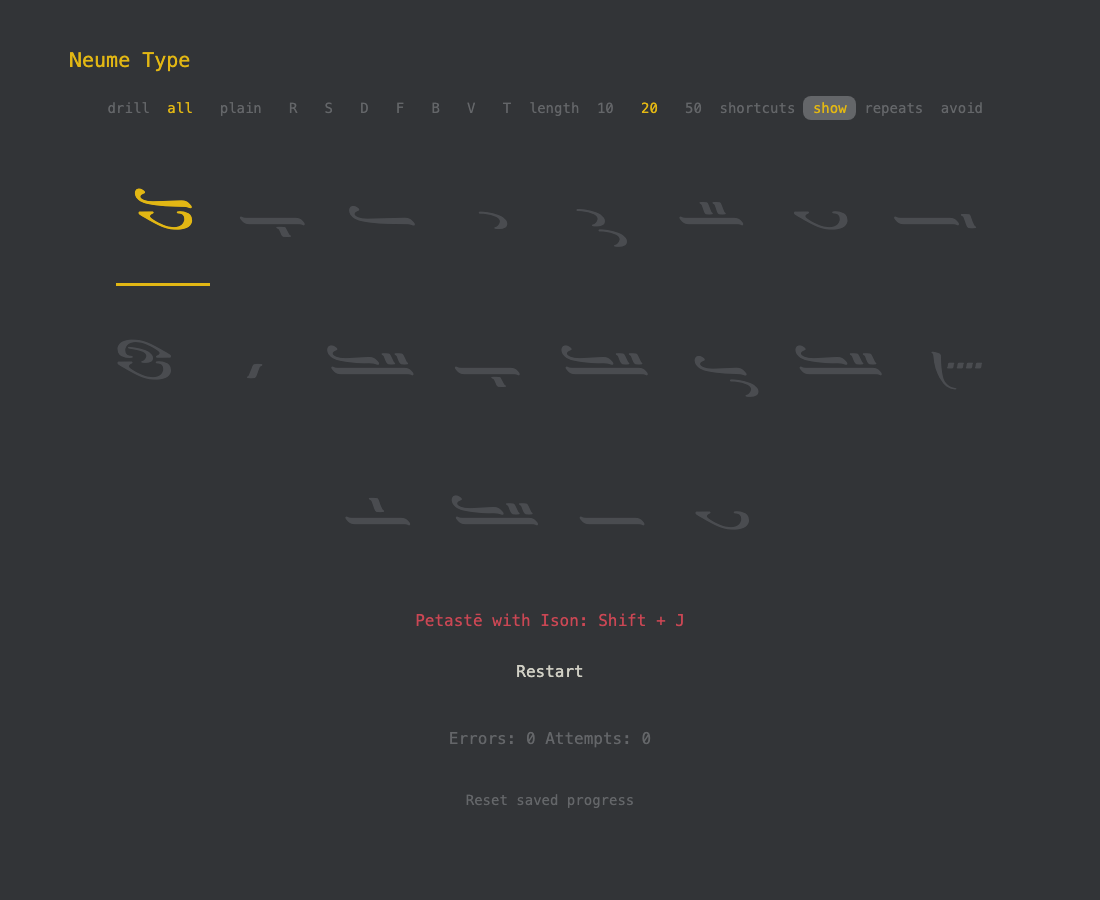
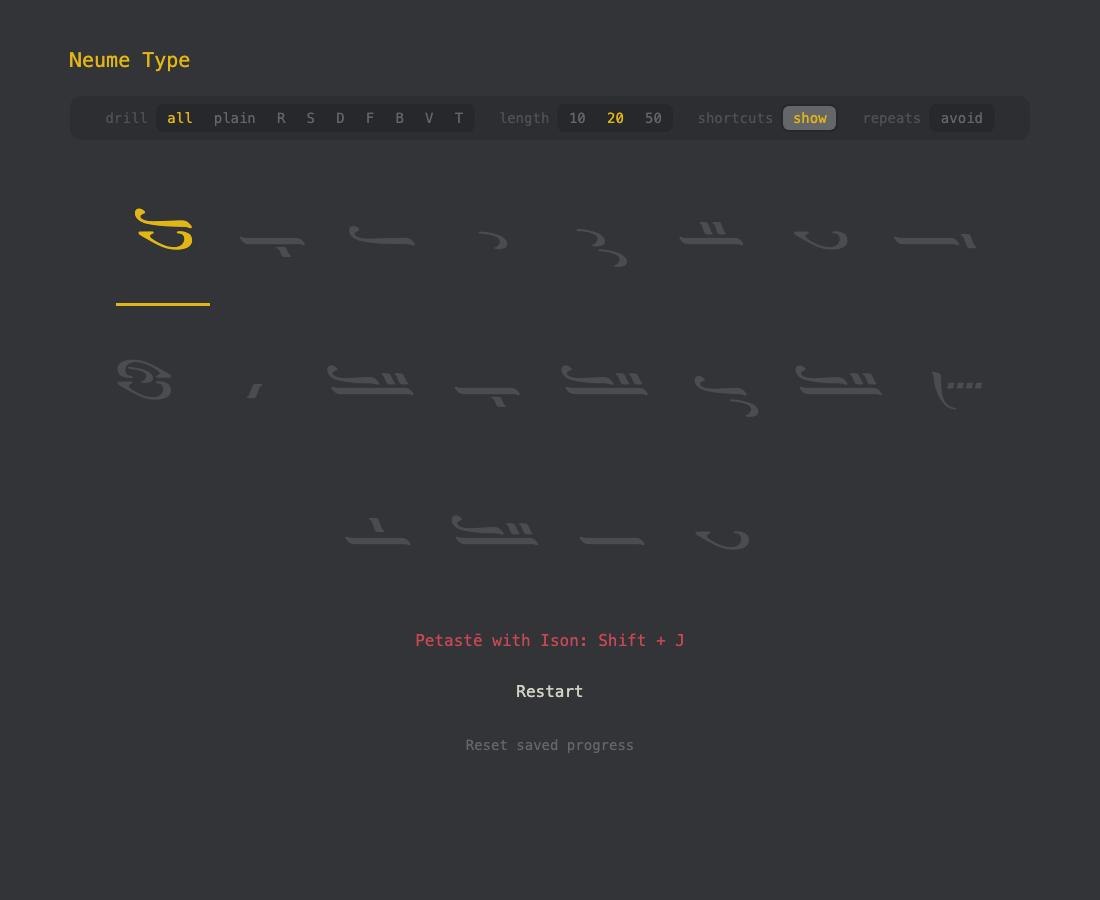
feat(ui): show weakest neumes only in the results, quieter and readable (#35)
* feat(ui): show weakest neumes only in the results, quieter and readable

Move the all-time weakest panel into the Results view and drop the yellow
card. Rename the errors column to miss rate, state the scope (all time,
3+ attempts), lift text contrast above 4.5:1, hide the glyphs from screen
readers and label the section by its heading. SPEC section 3c and
criterion 17 updated; owner decision 2026-11-21.

* docs(spec): say the weakest panel follows the hardest list

---------

diff --git a/e2e/progress.spec.ts b/e2e/progress.spec.ts
@@ -36,7 +36,21 @@ test('the weakest panel survives a reload', async ({ page }) => {
   await playRun(page);
   await expect(page.getByTestId('weakest').locator(`tr[data-neume-id="${first.id}"]`)).toBeVisible();
   await page.reload();
+  // Saved history never shows during a test or on a fresh start, only in the results.
+  await expect(page.getByTestId('weakest')).toHaveCount(0);
+  await playRun(page);
   await expect(page.getByTestId('weakest').locator(`tr[data-neume-id="${first.id}"]`)).toBeVisible();
+});
+
+test('the weakest panel shows only inside the results, never during a test', async ({ page }) => {
+  await page.goto('/?seed=1');
+  for (let i = 0; i < 3; i++) await page.keyboard.press('KeyH');
+  await playRun(page);
+  await expect(page.getByTestId('done').getByTestId('weakest')).toBeVisible();
+  await page.getByTestId('restart').click();
+  await expect(page.getByTestId('weakest')).toHaveCount(0);
+  await typeChord(page, await currentTarget(page)); // mid-test with saved history
+  await expect(page.getByTestId('weakest')).toHaveCount(0);
 });
 
 test('corrupt storage does not break the page', async ({ page }) => {
@@ -89,36 +103,79 @@ test('settings survive a reset and a reload', async ({ page }) => {
   await expect(page.getByTestId('drill-KeyR')).toHaveAttribute('aria-pressed', 'true');
 });
 
-test('the weakest panel is a yellow-outlined card holding a table with no ruled lines', async ({ page }) => {
+test('the weakest panel is a quiet table with no outline, no card and no ruled lines', async ({ page }) => {
   await page.goto('/?seed=1');
   for (let i = 0; i < 3; i++) await page.keyboard.press('KeyH');
   await playRun(page);
-  const card = page.getByTestId('weakest');
-  const outline = await card.evaluate((el) => {
+  const panel = page.getByTestId('weakest');
+  const box = await panel.evaluate((el) => {
     const cs = getComputedStyle(el);
-    return [cs.borderTopColor, cs.borderTopWidth];
+    return { width: parseFloat(cs.borderTopWidth), style: cs.borderTopStyle, bg: cs.backgroundColor, radius: parseFloat(cs.borderTopLeftRadius) };
   });
-  expect(outline[0]).toBe('rgb(226, 183, 20)'); // --accent
-  expect(parseFloat(outline[1])).toBeGreaterThanOrEqual(1);
-  // A real table with column headers, so each value sits under its title.
-  const headers = card.locator('table thead th');
-  expect(await headers.count()).toBeGreaterThanOrEqual(3);
-  await expect(card.locator('tbody tr').first().locator('td').first()).toBeVisible();
+  expect(box.width === 0 || box.style === 'none').toBe(true);
+  expect(box.bg).toBe('rgba(0, 0, 0, 0)');
+  expect(box.radius).toBe(0);
+  // A real table with the column titles from the owner's brief.
+  await expect(panel.locator('thead th')).toHaveText(['neume', 'name', 'shortcut', 'miss rate']);
+  await expect(panel.locator('tbody tr').first().locator('td').first()).toBeVisible();
+  // The ranking scope is stated.
+  await expect(panel).toContainText('all time · 3+ attempts');
   // No hard lines: no cell or row has a visible border.
-  const ruled = await card.locator('th, td, tr, table').evaluateAll((els) =>
+  const ruled = await panel.locator('th, td, tr, table').evaluateAll((els) =>
     els.filter((el) => ['top', 'right', 'bottom', 'left'].some((side) => parseFloat(getComputedStyle(el).getPropertyValue(`border-${side}-width`)) > 0 && getComputedStyle(el).getPropertyValue(`border-${side}-style`) !== 'none')).length,
   );
   expect(ruled).toBe(0);
+  // Rows are not interactive, so they do not change on hover.
+  const row = panel.locator('tbody tr').first();
+  const before = await row.locator('td').nth(1).evaluate((el) => getComputedStyle(el).backgroundColor);
+  await row.hover();
+  expect(await row.locator('td').nth(1).evaluate((el) => getComputedStyle(el).backgroundColor)).toBe(before);
 });
 
-test('the weakest card is left-aligned and as wide as the settings bar', async ({ page }) => {
+test('the weakest panel text has at least 4.5:1 contrast', async ({ page }) => {
   await page.goto('/?seed=1');
   for (let i = 0; i < 3; i++) await page.keyboard.press('KeyH');
   await playRun(page);
-  const card = (await page.getByTestId('weakest').boundingBox())!;
-  const bar = (await page.locator('.settings').boundingBox())!;
-  expect(Math.abs(card.x - bar.x)).toBeLessThan(2);
-  expect(Math.abs(card.width - bar.width)).toBeLessThan(2);
-  const align = await page.getByTestId('weakest').locator('tbody td').nth(1).evaluate((el) => getComputedStyle(el).textAlign);
-  expect(['left', 'start']).toContain(align);
+  const ratios = await page.getByTestId('weakest').evaluate((panel) => {
+    const lum = (rgb: string) => {
+      const [r, g, b] = rgb.match(/[\d.]+/g)!.slice(0, 3).map((v) => {
+        const c = Number(v) / 255;
+        return c <= 0.03928 ? c / 12.92 : ((c + 0.055) / 1.055) ** 2.4;
+      });
+      return 0.2126 * r + 0.7152 * g + 0.0722 * b;
+    };
+    const bg = lum(getComputedStyle(document.body).backgroundColor);
+    const cells = [
+      ...panel.querySelectorAll('h3, p, th, td:not(:first-child)'),
+    ] as HTMLElement[];
+    return cells.map((el) => {
+      const l = lum(getComputedStyle(el).color);
+      return { text: el.textContent, ratio: (Math.max(l, bg) + 0.05) / (Math.min(l, bg) + 0.05) };
+    });
+  });
+  expect(ratios.length).toBeGreaterThan(5);
+  for (const r of ratios) expect(r.ratio, r.text ?? '').toBeGreaterThanOrEqual(4.5);
+});
+
+test('the weakest panel is labelled by its heading and hides the glyphs from screen readers', async ({ page }) => {
+  await page.goto('/?seed=1');
+  for (let i = 0; i < 3; i++) await page.keyboard.press('KeyH');
+  await playRun(page);
+  const panel = page.getByTestId('weakest');
+  const labelledby = await panel.getAttribute('aria-labelledby');
+  expect(labelledby).toBeTruthy();
+  await expect(page.locator(`#${labelledby}`)).toHaveText('Weakest neumes');
+  await expect(panel.locator('tbody .neume').first()).toHaveAttribute('aria-hidden', 'true');
+});
+
+test('on a phone the weakest rows stay readable without overflow', async ({ page }) => {
+  await page.setViewportSize({ width: 390, height: 800 });
+  await page.goto('/?seed=1');
+  for (let i = 0; i < 3; i++) await page.keyboard.press('KeyH');
+  await playRun(page);
+  const panel = page.getByTestId('weakest');
+  const overflow = await page.evaluate(() => document.documentElement.scrollWidth - document.documentElement.clientWidth);
+  expect(overflow).toBeLessThanOrEqual(0);
+  const rowHeight = (await panel.locator('tbody tr').first().boundingBox())!.height;
+  expect(rowHeight).toBeLessThan(80); // at most two lines of text
 });

diff --git a/src/ui/App.tsx b/src/ui/App.tsx
@@ -93,6 +93,7 @@ export function App({ store, progress, debug = false }: { store: GameStore; prog
           tallies={state.tallies}
           bestRate={best ? best.neumesPerMinute.toFixed(1) : null}
           newBest={saved.lastRun?.newBest === true && saved.lastRun.key === key}
+          weak={weakNeumes}
         />
       ) : (
         <div className="neume-row" data-testid="row">
@@ -133,36 +134,6 @@ export function App({ store, progress, debug = false }: { store: GameStore; prog
         Errors: <span data-testid="errors">{state.errors}</span> Attempts:{' '}
         <span data-testid="attempts">{state.attempts}</span>
       </p>
-      {weakNeumes.length > 0 && (
-        <section className="weakest" data-testid="weakest">
-          <h2>Weakest neumes</h2>
-          <table>
-            <thead>
-              <tr>
-                <th scope="col">neume</th>
-                <th scope="col">name</th>
-                <th scope="col">shortcut</th>
-                <th scope="col">errors</th>
-              </tr>
-            </thead>
-            <tbody>
-              {weakNeumes.map((w) => {
-                const entry = keymap.find((e) => e.id === w.id)!;
-                return (
-                  <tr key={w.id} data-neume-id={w.id}>
-                    <td>
-                      <span className="neume">{glyph(entry.codePoints)}</span>
-                    </td>
-                    <td>{entry.name}</td>
-                    <td className="shortcut">{shortcutText(entry)}</td>
-                    <td className="rate">{Math.round(w.rate * 100)}%</td>
-                  </tr>
-                );
-              })}
-            </tbody>
-          </table>
-        </section>
-      )}
       <button
         type="button"
         className="reset-progress"
@@ -204,11 +175,13 @@ function ResultsView({
   tallies,
   bestRate,
   newBest,
+  weak,
 }: {
   results: FormattedResults;
   tallies: Tallies;
   bestRate: string | null;
   newBest: boolean;
+  weak: ReturnType<typeof weakest>;
 }) {
   const worst = hardest(tallies, 3);
   return (
@@ -244,6 +217,39 @@ function ResultsView({
             );
           })}
         </ol>
+      )}
+      {weak.length > 0 && (
+        <section className="weakest" data-testid="weakest" aria-labelledby="weakest-title">
+          <h3 id="weakest-title">Weakest neumes</h3>
+          <p className="weakest-scope">all time · 3+ attempts</p>
+          <table>
+            <thead>
+              <tr>
+                <th scope="col">neume</th>
+                <th scope="col">name</th>
+                <th scope="col">shortcut</th>
+                <th scope="col">miss rate</th>
+              </tr>
+            </thead>
+            <tbody>
+              {weak.map((w) => {
+                const entry = keymap.find((e) => e.id === w.id)!;
+                return (
+                  <tr key={w.id} data-neume-id={w.id}>
+                    <td>
+                      <span className="neume" aria-hidden="true">
+                        {glyph(entry.codePoints)}
+                      </span>
+                    </td>
+                    <td>{entry.name}</td>
+                    <td className="shortcut">{shortcutText(entry)}</td>
+                    <td className="rate">{Math.round(w.rate * 100)}%</td>
+                  </tr>
+                );
+              })}
+            </tbody>
+          </table>
+        </section>
       )}
     </section>
   );

diff --git a/src/ui/look.css b/src/ui/look.css
@@ -9,6 +9,8 @@
   --neume-todo: #4a4c50;
   --neume-done: #f2f1ea;
   --error: #ca4754;
+  --text-soft: #a0a2a6; /* 4.8:1 on --bg, for small secondary text */
+  --error-text: #ee7f8a; /* 4.8:1 on --bg, for error text */
 }
 
 body {
@@ -182,64 +184,57 @@ h2 {
 }
 
 .weakest {
-  align-self: stretch;
-  box-sizing: border-box;
-  padding: 1.25rem 1.5rem 1rem;
-  text-align: left;
-  background: var(--bar-bg);
-  border: 2px solid var(--accent);
-  border-radius: 0.75rem;
+  margin-top: 1.5rem;
 }
-.weakest h2 {
-  margin: 0 0 0.75rem;
-  color: var(--text-button);
+.results .weakest h3 {
+  margin: 0;
+  color: var(--text-soft);
+}
+.results .weakest .weakest-scope {
+  margin: 0.125rem 0 0.75rem;
+  font-size: 0.875rem;
+  color: var(--text-soft);
 }
 .weakest table {
-  width: 100%;
-  border-collapse: separate;
-  border-spacing: 0;
+  margin: 0 auto;
+  border-collapse: collapse;
   font-variant-numeric: tabular-nums;
 }
 .weakest th {
-  padding: 0 0.75rem 0.5rem;
+  padding: 0 1.5rem 0.25rem 0;
+  white-space: nowrap;
   font-size: 0.75rem;
   font-weight: 400;
   text-align: left;
-  color: var(--text-label);
+  color: var(--text-soft);
 }
 .weakest td {
-  padding: 0.25rem 0.75rem;
+  padding: 0.125rem 1.5rem 0.125rem 0;
   color: var(--text-button);
+  text-align: left;
   vertical-align: middle;
 }
 .weakest td:first-child,
 .weakest th:first-child {
-  width: 3.5rem;
-}
-.weakest td:first-child {
-  border-radius: 0.5rem 0 0 0.5rem;
-}
-.weakest td:last-child {
-  border-radius: 0 0.5rem 0.5rem 0;
-}
-.weakest tbody tr:hover td {
-  background: var(--chip-bg);
+  width: 3rem;
 }
 .weakest .shortcut {
-  color: var(--text-muted);
+  color: var(--text-soft);
+  white-space: nowrap;
 }
-.weakest .rate,
+.weakest td.rate,
 .weakest th:last-child {
+  padding-right: 0;
   text-align: right;
 }
 .weakest .rate {
-  color: var(--error);
+  color: var(--error-text);
 }
 .weakest .neume {
   font-size: 1.75rem;
   line-height: 1.5;
   min-width: 0;
-  padding: 0 0.15em;
+  padding: 0 0.15em 0 0;
   border-bottom: 0;
   color: var(--accent);
 }
@@ -264,17 +259,17 @@ h2 {
 }
 
 @media (max-width: 30rem) {
-  .weakest {
-    padding: 1rem 0.75rem 0.75rem;
-  }
   .weakest th,
   .weakest td {
-    padding-left: 0.375rem;
-    padding-right: 0.375rem;
+    padding-right: 0.75rem;
+  }
+  .weakest td:last-child,
+  .weakest th:last-child {
+    padding-right: 0;
   }
   .weakest td:first-child,
   .weakest th:first-child {
-    width: 2.5rem;
+    width: 2.25rem;
   }
   .weakest .neume {
     font-size: 1.5rem;

diff --git a/SPEC.md b/SPEC.md
@@ -56,7 +56,7 @@ Stored only in the browser (`localStorage`), never sent anywhere. One key, `neum
 
 - **Versioning:** optional added fields do not bump `version`; a breaking change bumps it and adds a migration. A stored version newer than the code is not understood: the game uses empty progress in memory and never writes, so newer data is not overwritten. Invalid JSON or a wrong shape: the raw text is copied once to `neume-type.progress.corrupt`, and the game starts empty and writable. Unknown neume or drill ids are kept, not deleted.
 - **Personal best:** the highest neumes per minute for a drill and length; a tie goes to higher accuracy. A run with show shortcuts on, or with no rate, never sets a best, but its per-neume tallies still add to the all-time totals.
-- **Weakest neumes:** all-time, ranked by error rate (errors / attempts), needing at least 3 attempts and at least one error, then errors desc, then id; top 5. Shown under the test when not empty.
+- **Weakest neumes:** all-time, ranked by error rate (errors / attempts), needing at least 3 attempts and at least one error, then errors desc, then id; top 5. Shown only in the results, after the hardest list, and only when not empty: never during a test or on a fresh start. The panel is borderless and quiet, its columns are neume, name, shortcut and miss rate (errors / attempts), and a muted line states "all time · 3+ attempts". Decided with the owner on 2026-11-21.
 - **Results** show the best for the current drill and length, and "New best" when the run set it. A "Reset saved progress" button asks for confirmation, then clears the key.
 - Missing or throwing storage (private mode, quota) never breaks the game: progress then lives in memory only. Settings (drill, show shortcuts, length, avoid repeats) are saved and restored on load; an unknown stored drill falls back to `all`, an absent or invalid stored length to 20, and an absent or invalid stored avoid-repeats value to off. Saving settings merges into the stored ones.
 
@@ -165,7 +165,7 @@ Copy the layout and feel of default Monkeytype by eye, with no Monkeytype code o
 14. A seeded large sample draws each entry at about its chance, includes the rarest entry, and `random()` of 0 and just below 1 give the first and last pool entries.
 15. Drill pools: `all` is every verified entry; `plain` has 28 entries and no letter modifier; R, S, D, F and B have 13, 5, 4, 7 and 4 entries; every drill pool is non-empty; an unknown drill throws. With the R drill every target of a full run uses R.
 16. The hardest list ignores neumes with no errors, sorts by errors, then attempts, then id, and caps at 3. In a real browser a wrong key on a neume lists it with "1 error", and a clean run shows "No errors".
-17. Saved progress: parsing null, invalid JSON, a wrong shape and a future version gives empty progress, and a future version is never overwritten; a throwing or missing storage does not throw; the best follows the rules in section 3c (per drill and length, ties by accuracy, never from practice runs or a null rate); the weakest list needs 3 attempts. In a real browser the best, the weakest panel and the settings survive a reload, corrupt storage does not break the page, and reset clears the panel.
+17. Saved progress: parsing null, invalid JSON, a wrong shape and a future version gives empty progress, and a future version is never overwritten; a throwing or missing storage does not throw; the best follows the rules in section 3c (per drill and length, ties by accuracy, never from practice runs or a null rate); the weakest list needs 3 attempts. In a real browser the best, the weakest panel (inside the results only) and the settings survive a reload, corrupt storage does not break the page, and reset clears the panel. The panel text meets 4.5:1 contrast.
 18. Appendix B: every row matches the keymap; no entry is `unverified` (row 82 was verified by the owner on 2026-11-19); the default `all` drill is exactly the 61 quantity entries (so its chances and seeded draws are unchanged); the V drill has the 11 quality entries and the T drill all 18 fthoras, including row 82, which can be drawn; in a real browser each V and T target is typed with its own shortcut and all 90 code point sequences render from the Neanes font. Human check, pending: the owner compares the 29 new glyphs with the guide's Symbol column.
 19. Avoid repeats: off gives exactly the previous draw for a fixed seed; on never puts the same id twice in a row over many seeds and all drills, draws each later position at c_j / (1 - c_prev), uses one `random()` per target, and persists across reload together with the drill and length.
 

diff --git a/PROGRESS.md b/PROGRESS.md
@@ -33,6 +33,7 @@
 - T28 (owner decision 2026-11-19): row 82 (T + M, U+E19B) is verified. The owner reads the glyph as the guide's "Soft Chromatic Ga fthora" (it can be read on Ga or Ke; SBMuFL names it Ke): the name stays the guide's, the id stays `fthoraSoftChromaticKeAbove`, and SPEC Appendix B notes the naming difference. The keymap now has no unverified entry; the T drill has all 18 fthoras and can draw row 82. Tests changed by this owner-approved spec (not weakened): the keymap test that pinned only row 82 unverified now pins no unverified entries and the verified row 82; the drills test that pinned 17 now pins 18 including row 82 and that it can be drawn; the quality e2e now also requires T + M among the typed T shortcuts. The generic unverified-filter tests use fixtures and are untouched. SPEC criterion 18 updated. No dependencies added.
 
 - UI tidy (2026-11-21, owner request): the four settings (drill, length, shortcuts, repeats) are now groups in one bar (`.settings`, `.setting-group`): a dim title (`.setting-label`, `--text-label`) beside its options in a darker chip (`.setting-options`, `--chip-bg`), so a title is visibly not a control. The Errors/Attempts line stays in the DOM (tests read it) but is hidden unless `?debug`. Groups wrap on a phone. `e2e/look.spec.ts` has three new tests that failed first. No new dependencies. Weakest-neumes panel and Reset button are untouched; owner may want those hidden too. `docs/screenshots/` not regenerated.
+- Weakest neumes quieter and results-only (2026-11-21, owner decision after a design critique): the panel moved from under the test into the Results view (after the run's hardest list) and shows only when not empty. It is no longer a yellow-outlined card: no border, background or radius, and no row hover (rows are not clickable). Header `errors` became `miss rate`, a muted line states `all time · 3+ attempts`, glyphs are `aria-hidden`, and the section is `aria-labelledby` its heading. Contrast: new tokens `--text-soft` (#a0a2a6) and `--error-text` (#ee7f8a), both about 4.8:1 on `--bg`; the old text was 1.7 to 2.9:1. On a phone the shortcut and header stay on one line and the name wraps. SPEC section 3c and criterion 17 updated. Tests changed by this owner decision, not weakened: the yellow-outline and card-width tests are replaced by a quiet-table test, and the tests that read the panel before a run now finish a run first; new tests cover results-only, 4.5:1 contrast, aria and the phone layout (written first, 5 failed). Not changed: `Results` and `Hardest this run` text is still `--text-muted` (about 2.7:1), the same low contrast as before, and the Reset button. Screenshots regenerated. No dependencies added.
 
 ## Next
 - G7 decided 2026-11-18: stay on React.
